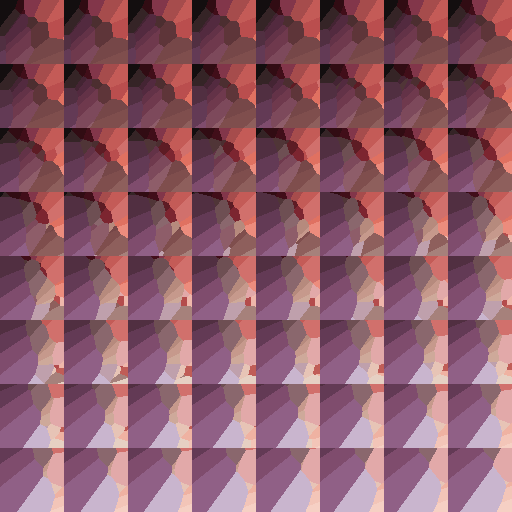
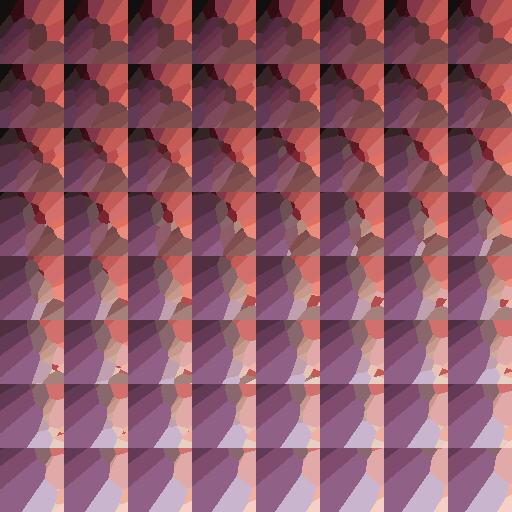
fix shaders

diff --git a/art/paletteLUTGenerator.js b/art/paletteLUTGenerator.js
@@ -1,0 +1,75 @@
+// Written using p5.js 2.2.0
+// Hosted at https://openprocessing.org/sketch/2853523
+
+async function setup() {
+	palette = await loadImage("fullPalette.png");
+	palette.loadPixels();
+
+	const dayPalette = parsePalette(palette, 0, 45);
+	const dawnPalette = parsePalette(palette, 48, 45);
+	const nightPalette = parsePalette(palette, 96, 45);
+
+	const depth = 6; // size of palette
+	const fromPalette = dayPalette;
+	const toPalette = dawnPalette; // dayPalette or dawnPalette or nightPalette
+
+	const levels = 1 << depth;
+	const squaresWide = 1 << Math.ceil(depth / 2);
+	const squaresHigh = 1 << Math.floor(depth / 2);
+	const width = levels * squaresWide;
+	const height = levels * squaresHigh;
+
+	createCanvas(width, height);
+	loadPixels();
+
+	for (let x = 0; x < width; x++) {
+		for (let y = 0; y < width; y++) {
+			const r = x % levels;
+			const g = y % levels;
+			const b = Math.floor(x / levels) + Math.floor(y / levels) * squaresWide;
+
+			const index = nearest(fromPalette, r, g, b, levels);
+
+			const offset = (x + y * width) * 4;
+			pixels[offset + 0] = toPalette[index][0];
+			pixels[offset + 1] = toPalette[index][1];
+			pixels[offset + 2] = toPalette[index][2];
+			pixels[offset + 3] = 255;
+		}
+	}
+
+	updatePixels();
+}
+
+// find nearest colour in the palette
+function nearest(palette, r, g, b, levels) {
+	r = (r / (levels - 1)) * 255;
+	g = (g / (levels - 1)) * 255;
+	b = (b / (levels - 1)) * 255;
+
+	let minDist = Infinity;
+	let minIndex;
+	for (const [index, color] of palette.entries()) {
+		const dist = Math.hypot(r - color[0], g - color[1], b - color[2]);
+
+		if (dist < minDist) {
+			minDist = dist;
+			minIndex = index;
+		}
+	}
+
+	return minIndex;
+}
+
+function parsePalette(img, offset, size) {
+	const palette = [];
+
+	for (let i = offset; i < offset + size; i++) {
+		const red = img.pixels[i * 4 + 0];
+		const green = img.pixels[i * 4 + 1];
+		const blue = img.pixels[i * 4 + 2];
+		palette.push([red, green, blue]);
+	}
+
+	return palette;
+}
